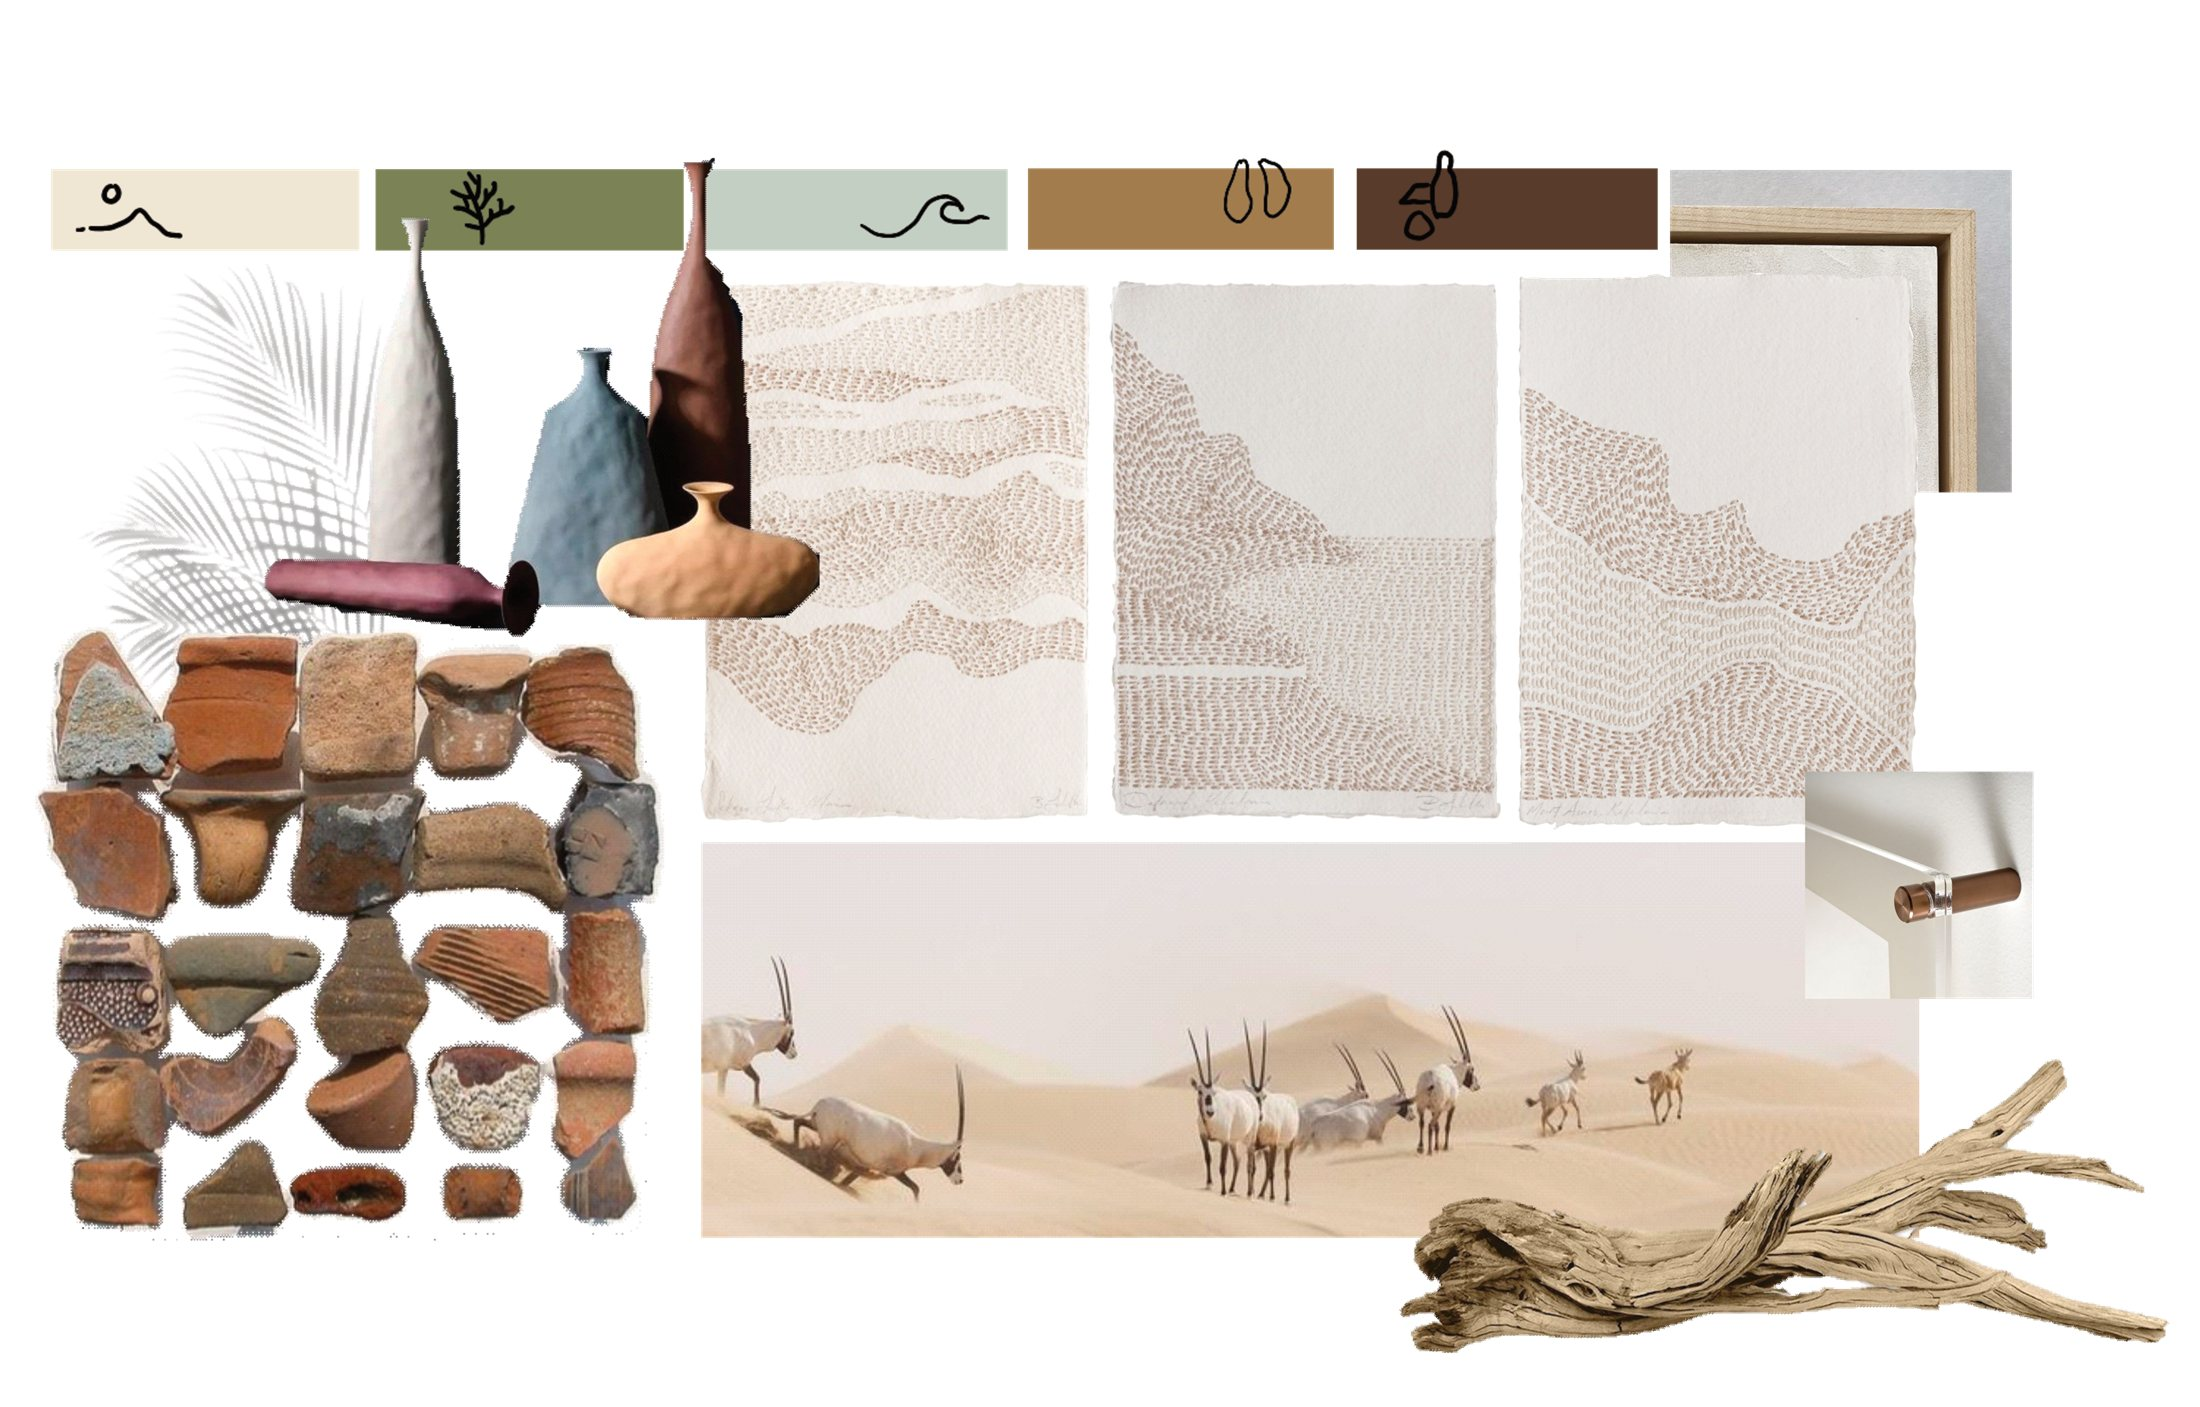
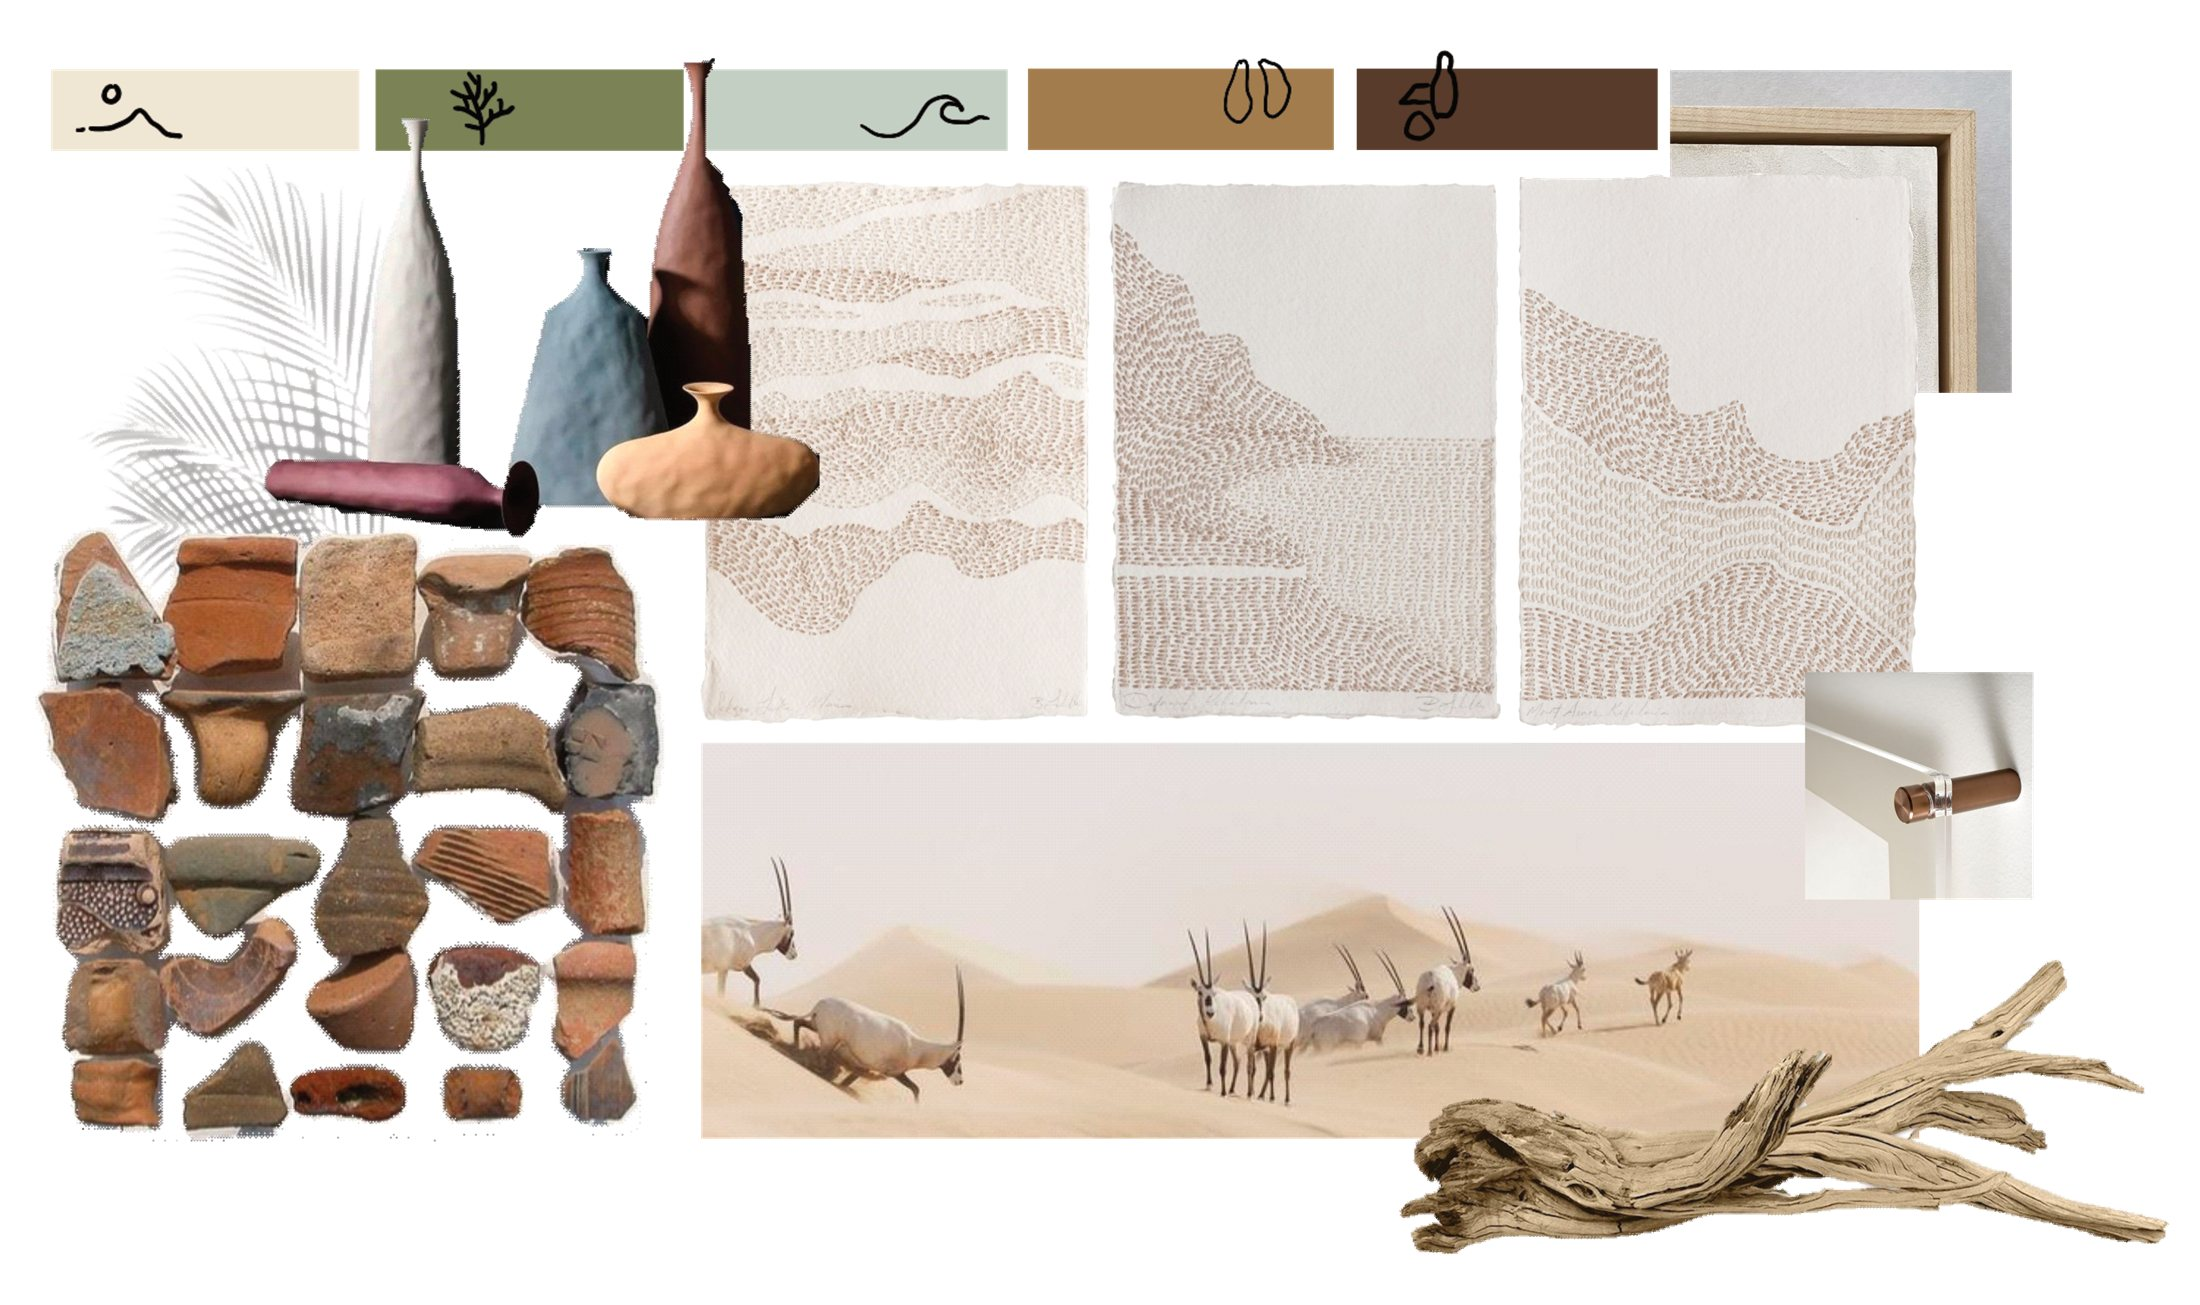
Re-crop Between Tide & Time cover to balance vertical margins, update insights image
The source cover image had a 10.8% blank margin at top vs 3.9% at
bottom, making the thumbnail look off-center even though the CSS
padding was symmetric. Re-cropped from the original source so
top/bottom margins are now balanced (~4% each).

Claude-Session: https://claude.ai/code/session_015Z31jsgrtnisH6d3JUgSCM

diff --git a/src/components/ProjectModal.jsx b/src/components/ProjectModal.jsx
@@ -352,7 +352,7 @@ export default function ProjectModal({ project, onClose }) {
                 <Img src="/projects/cepheid-culross/venn.png" alt="Venn diagram of placemaking, corporate culture, and best practice converging on work wellness" className="w-1/2 h-auto rounded-sm" />
               </div>
               <p className="text-xs italic mb-4" style={{ color: '#fdbf69' }}>Insights</p>
-              <Img src="/projects/cepheid-culross/insights.jpg" alt="Four workplace insights: evolving office roles, culture and collaboration, accelerating pre-pandemic trends, and hybrid workforce flexibility" className="w-4/5 h-auto rounded-sm mb-8 mx-auto" />
+              <Img src="/projects/cepheid-culross/insights.jpg" alt="Four workplace insights: evolving office roles, culture and collaboration, accelerating pre-pandemic trends, and hybrid workforce flexibility" className="w-full h-auto rounded-sm mb-8" />
               <p className="text-xs tracking-widest uppercase text-stone/40 mb-1 flex items-center gap-2">
                 <span className="inline-block w-2 h-2 rounded-full bg-gold shrink-0" />
                 Design Principles
